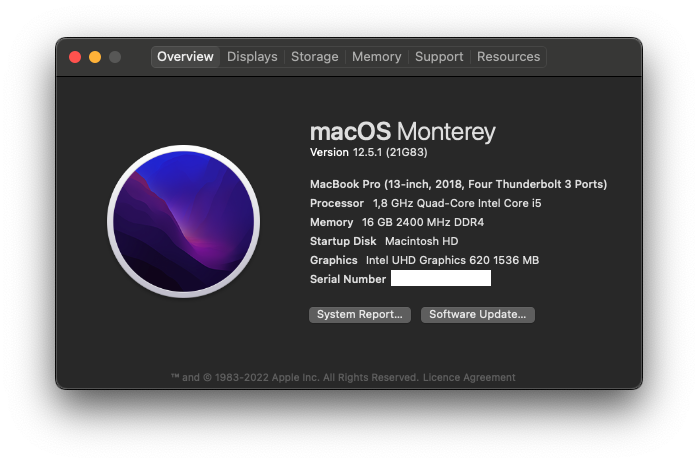
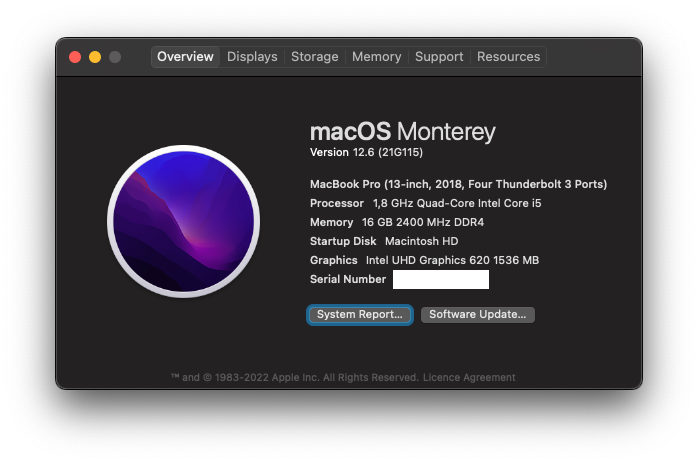
Updated to macOS Monterey 12.6 (21G115) official release

Changed region(s): [[0.4513, 0.6048, 0.7221, 0.7257], [0.5415, 0.3024, 0.6318, 0.3629], [0.4212, 0.6652, 0.4513, 0.6955]]

diff --git a/README.md b/README.md
@@ -5,7 +5,7 @@
 [![BIOS](https://img.shields.io/badge/BIOS-1.22-important.svg)](https://www.dell.com/support/home/en-us/product-support/product/inspiron-13-5370-laptop/drivers)
 [![OpenCore 
 Version](https://img.shields.io/badge/OpenCore-0.8.4-cyan.svg)](https://github.com/acidanthera/OpenCorePkg/releases/latest)
-[![macOS Monterey](https://img.shields.io/badge/macOS-12.5.1%20(21G83)-white.svg)](https://www.apple.com/macos/monterey/)
+[![macOS Monterey](https://img.shields.io/badge/macOS-12.6%20(21G115)-white.svg)](https://www.apple.com/macos/monterey/)
 [![Release](https://img.shields.io/badge/Download-latest-success.svg)](https://github.com/dreamwhite/dell-inspiron-5370-hackintosh/releases/latest)
 [![Validate config](https://github.com/dreamwhite/dell-inspiron-5370-hackintosh/actions/workflows/ci.yml/badge.svg)](https://github.com/dreamwhite/dell-inspiron-5370-hackintosh/actions/workflows/ci.yml)
 
@@ -20,7 +20,7 @@ Version](https://img.shields.io/badge/OpenCore-0.8.4-cyan.svg)](https://github.c
 | **Storage**    | `Western Digital SN750 Black NVMe 512GB`  |
 | **Audio Code** | `Realtek ALC295 (ALC3254)`                |
 | **WiFi Card**  | `Fenvi BCM94360NG with native firmware`   |
-| **OS**         | `macOS Monterey 12.5.1 (21G83)`           |
+| **OS**         | `macOS Monterey 12.6 (21G115)`            |
 | **BIOS**       | `v1.22`                                   |
 
 
